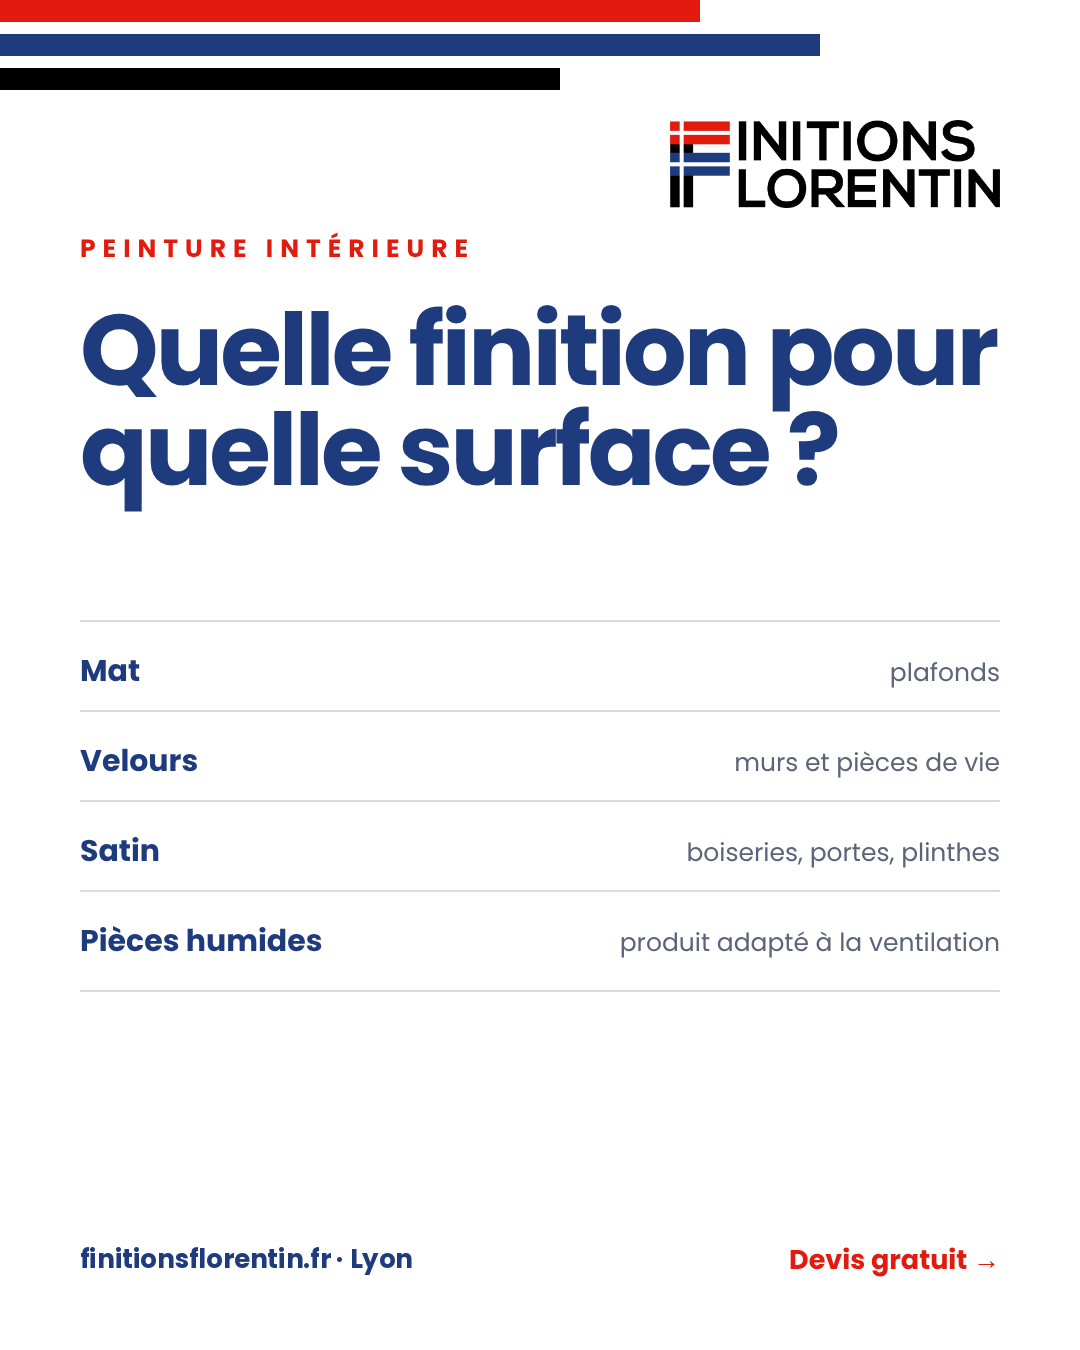
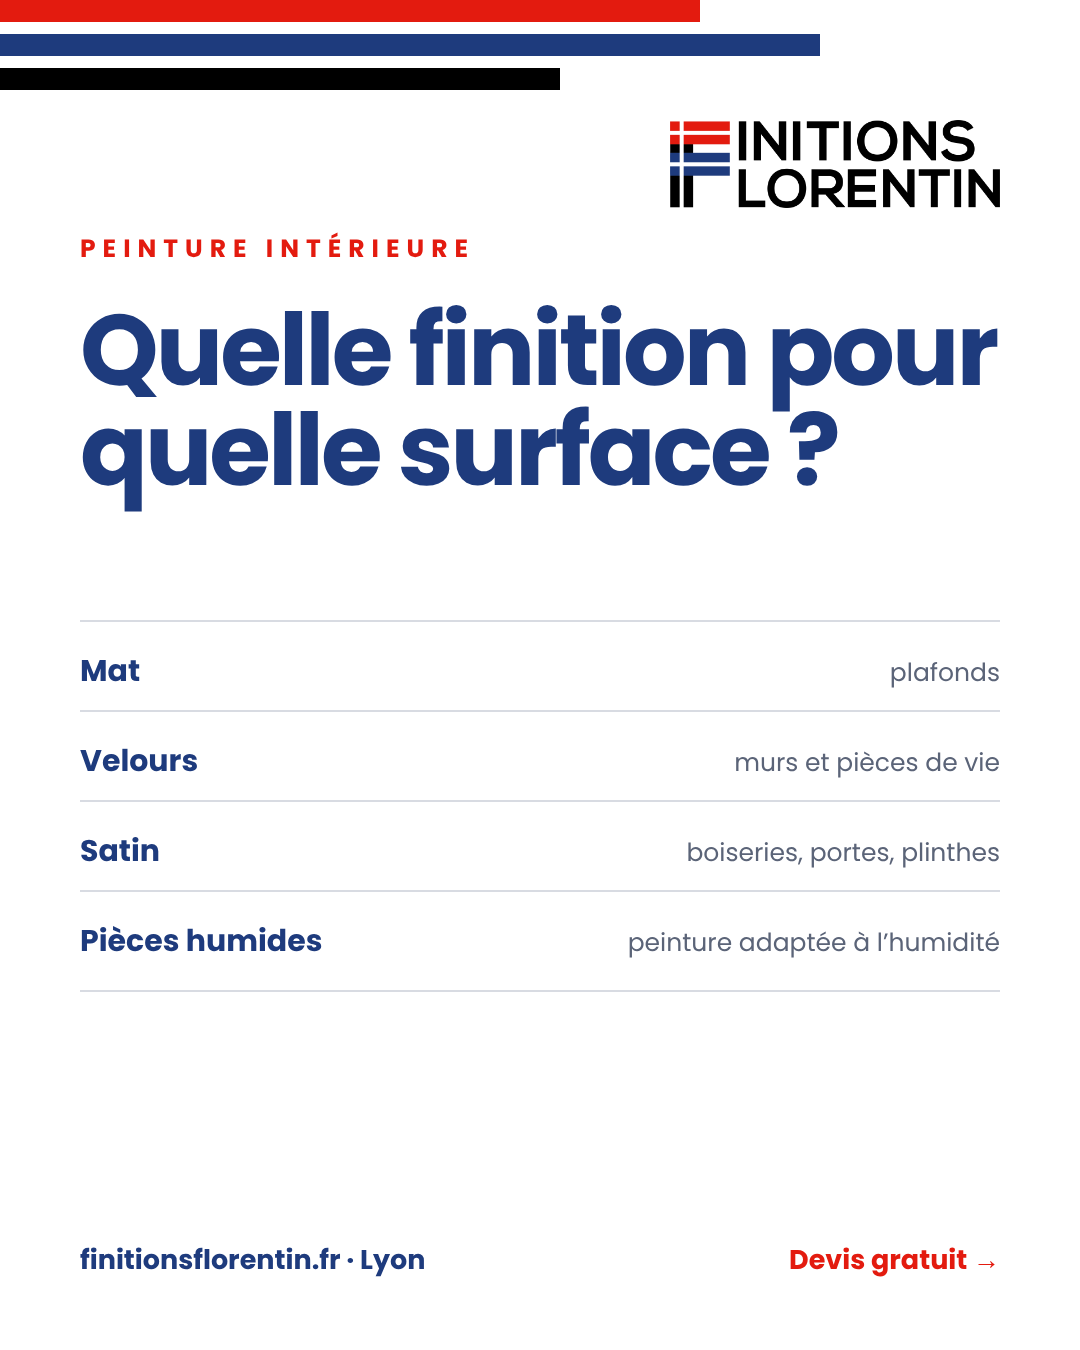
Carte finition : ligne pièces humides clarifiée
Claude-Session: https://claude.ai/code/session_01LyxsXe8xqb1EZ7c4QQAmih

Changed region(s): [[0.0917, 0.9022, 0.3972, 0.9644], [0.5806, 0.6844, 0.9167, 0.7156]]

diff --git a/sources/build16.py b/sources/build16.py
@@ -50,7 +50,7 @@ def vf(t,kicker,statement,verdict,expl):
 <div class="exp">{expl}</div>
 <div class="contact" style="color:{T["cont"]}"><span>{kicker}</span><em style="color:{T["cta"]}">Devis gratuit →</em></div></body>'''
 cards={
- "s1_jeu_finition": lst("blanc","PEINTURE INTÉRIEURE","Quelle finition pour quelle surface ?",[("Mat","plafonds"),("Velours","murs et pièces de vie"),("Satin","boiseries, portes, plinthes"),("Pièces humides","produit adapté à la ventilation")],top=620),
+ "s1_jeu_finition": lst("blanc","PEINTURE INTÉRIEURE","Quelle finition pour quelle surface ?",[("Mat","plafonds"),("Velours","murs et pièces de vie"),("Satin","boiseries, portes, plinthes"),("Pièces humides","peinture adaptée à l’humidité")],top=620),
 }
 async def main():
     async with async_playwright() as p:

diff --git a/tools/build16.py b/tools/build16.py
@@ -50,7 +50,7 @@ def vf(t,kicker,statement,verdict,expl):
 <div class="exp">{expl}</div>
 <div class="contact" style="color:{T["cont"]}"><span>{kicker}</span><em style="color:{T["cta"]}">Devis gratuit →</em></div></body>'''
 cards={
- "s1_jeu_finition": lst("blanc","PEINTURE INTÉRIEURE","Quelle finition pour quelle surface ?",[("Mat","plafonds"),("Velours","murs et pièces de vie"),("Satin","boiseries, portes, plinthes"),("Pièces humides","produit adapté à la ventilation")],top=620),
+ "s1_jeu_finition": lst("blanc","PEINTURE INTÉRIEURE","Quelle finition pour quelle surface ?",[("Mat","plafonds"),("Velours","murs et pièces de vie"),("Satin","boiseries, portes, plinthes"),("Pièces humides","peinture adaptée à l’humidité")],top=620),
 }
 async def main():
     async with async_playwright() as p:

diff --git a/sources/legendes_lot1.md b/sources/legendes_lot1.md
@@ -6,12 +6,12 @@ Règles : vouvoiement, aucun prix ni délai, aucune mention de l'équipe ni de s
 
 **Instagram / Facebook**
 Mat, velours ou satin : le bon choix dépend de la surface.
-Mat pour les plafonds, velours pour les murs et les pièces de vie, satin pour les boiseries, les portes et les plinthes. Dans une pièce humide, tout dépend de la ventilation : si besoin, nous choisissons une peinture plus résistante.
+Mat pour les plafonds, velours pour les murs et les pièces de vie, satin pour les boiseries, les portes et les plinthes. Dans une pièce humide (cuisine, salle de bains), nous choisissons une peinture adaptée à l’humidité.
 Un doute sur votre projet ? Devis gratuit : [numéro retiré]
 #peinture #renovation #lyon #finitionsflorentin
 
 **LinkedIn**
-Mat, velours, satin : la finition se choisit surface par surface. Mat pour les plafonds, velours pour les murs et les pièces de vie, satin pour les boiseries, les portes et les plinthes. En pièce humide, nous adaptons le produit selon la ventilation.
+Mat, velours, satin : la finition se choisit surface par surface. Mat pour les plafonds, velours pour les murs et les pièces de vie, satin pour les boiseries, les portes et les plinthes. En pièce humide, nous choisissons une peinture adaptée à l’humidité.
 Chez Finitions Florentin, la peinture est une affaire de préparation autant que de produit. Devis gratuit sur finitionsflorentin.fr
 
 ## 2. Une sous-couche, c'est facultatif ? (vrai ou faux)
